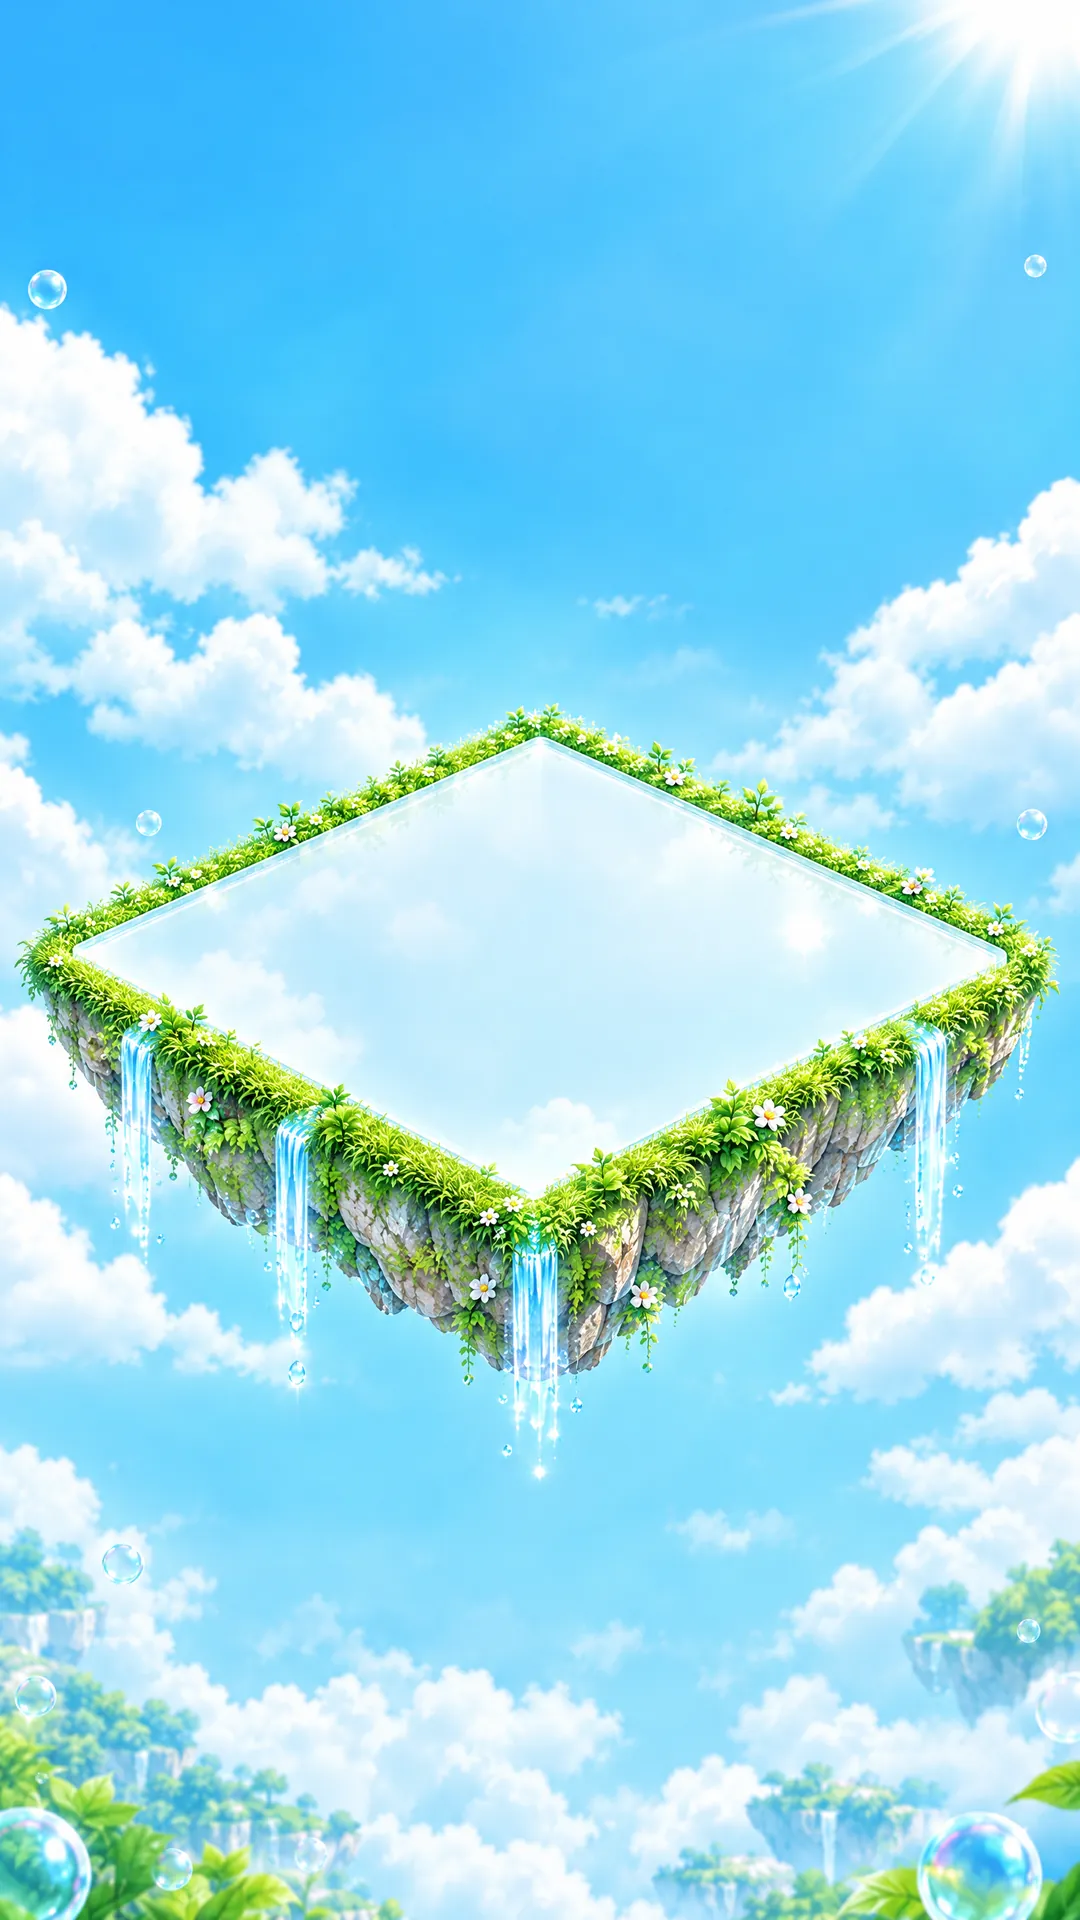
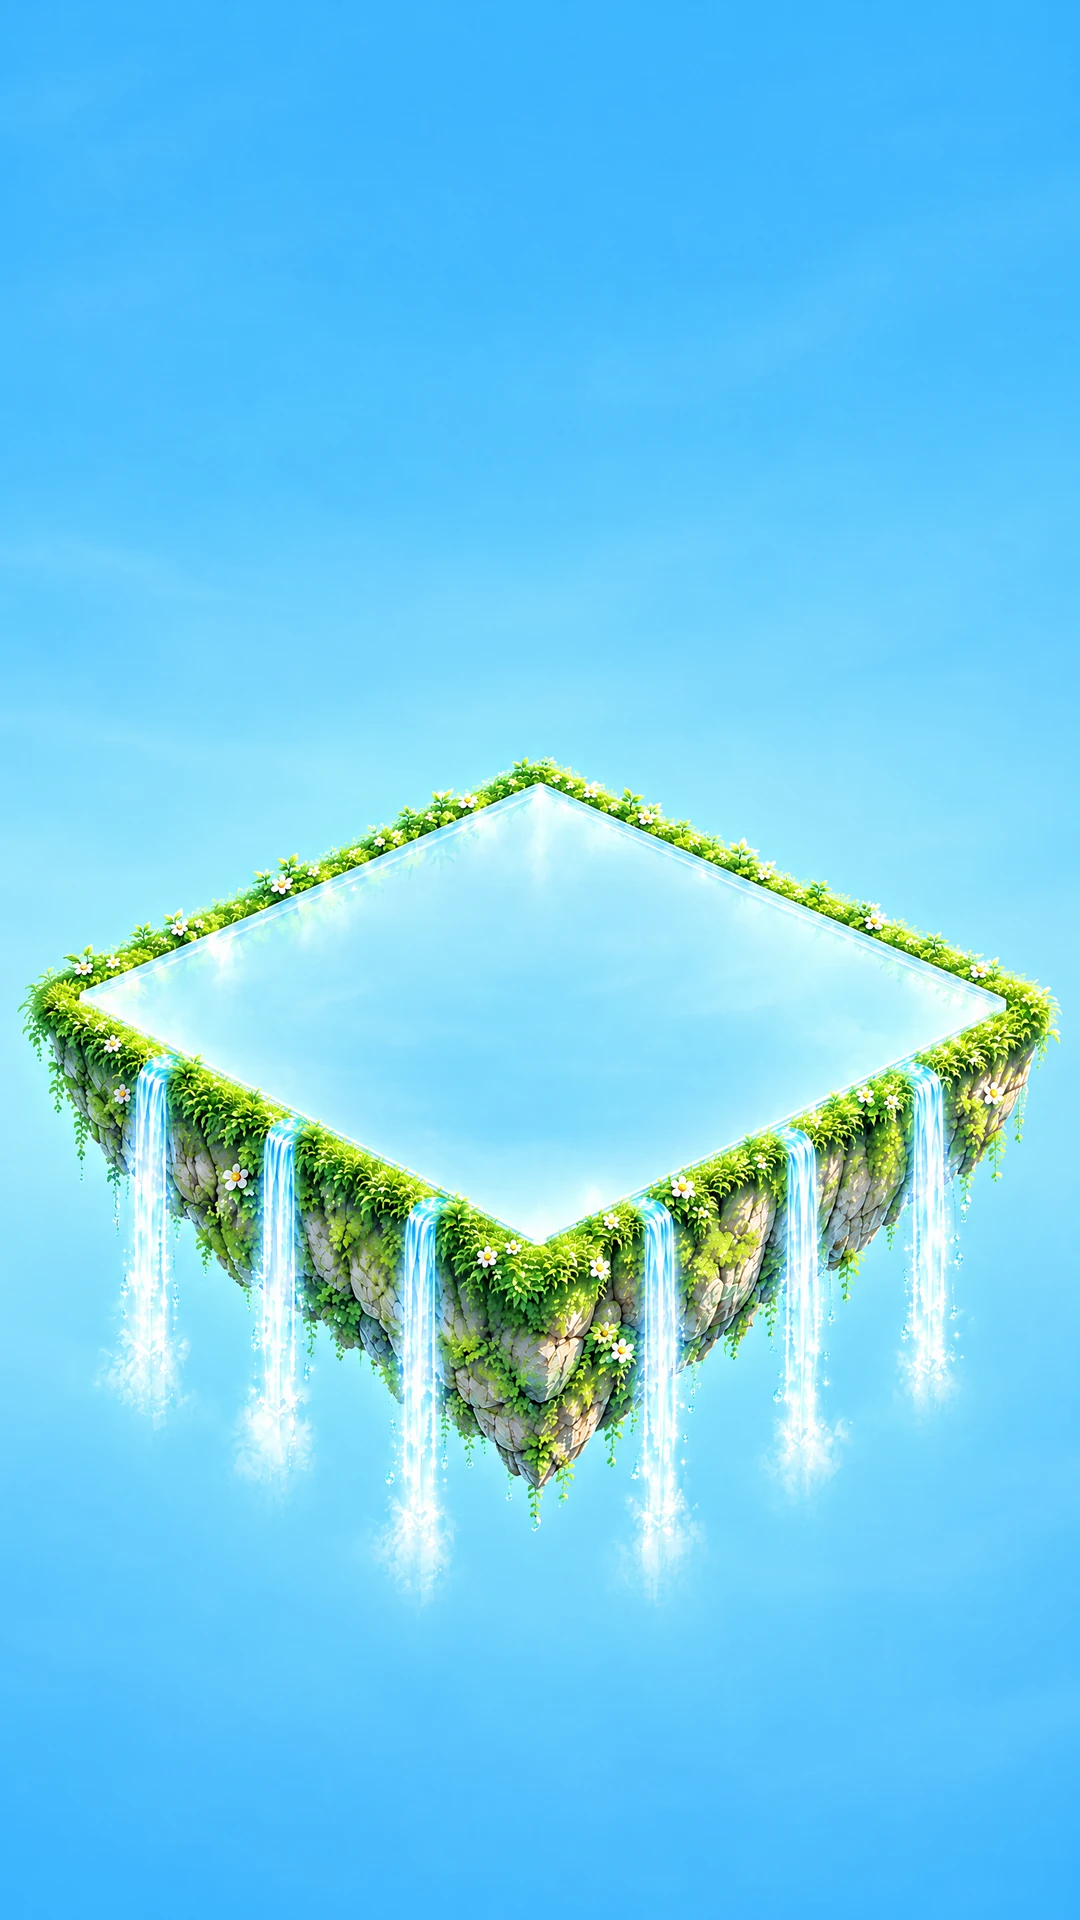
[Fix] Day sky redrawn on the exact board geometry
New day background (no clouds, sun glow or bubbles) generated against guide_BG_island_v2, so the glass plate and the 4x4 board share the same diamond. bgDy(): the day sky needs no offset, the other skies still use BG_DY until they are redrawn. Shop skin swap keeps the offset in step.

diff --git a/js/renderer.js b/js/renderer.js
@@ -1,5 +1,5 @@
 /* Skybloom module: renderer (split from index.html in step 12; code unchanged) */
-import { $, BG_DY, CAL, CX, CY, FALLS, G, GUIDE, HR, IMG, ISLAND, L, MOTION, SHOW, TH, TW, U, WS, bkey, center, reduce, same } from './core.js?v=0.6.6';
+import { $, CAL, CX, CY, FALLS, G, GUIDE, HR, IMG, ISLAND, L, MOTION, SHOW, TH, TW, U, WS, bgDy, bkey, center, reduce, same } from './core.js?v=0.6.6';
 import { SFX, vib } from './audio.js?v=0.6.6';
 import { busy, finishMerge, paused, speedRing, tickSpeed } from './game.js?v=0.6.6';
 import { addFxXY, floatText, parts, set_floatText } from './fx.js?v=0.6.6';
@@ -190,7 +190,7 @@ export function initRenderer() {
   const T = genTextures(), S = app.stage;
   const world = new PIXI.Container(); world.pivot.set(CX, CY); world.position.set(CX, CY); world.scale.set(WS); S.addChild(world);
   // sky: three time-of-day backgrounds cross-fade
-  const bgs = ['bg', 'bg1', 'bg2'].map(k => { const s = new PIXI.Sprite(tex(k)); s.width = 1080; s.height = 1920; s.y = BG_DY; world.addChild(s); return s; });   // BG_DY: island art lines up with the board (core.js)
+  const bgs = ['bg', 'bg1', 'bg2'].map(k => { const s = new PIXI.Sprite(tex(k)); s.width = 1080; s.height = 1920; s.y = bgDy(k); world.addChild(s); return s; });   // bgDy: island art lines up with the board (core.js)
   const lights = [[980, 40, 0xfff6d0, 520], [1010, 760, 0xffb070, 620], [960, 160, 0xcfe0ff, 360]].map(([x, y, tint, size]) => {
     const s = new PIXI.Sprite(T.glow); s.anchor.set(.5); s.position.set(x, y); s.width = s.height = size; s.tint = tint; s.blendMode = ADD(); world.addChild(s); return s; });
   const cloud = (k, y, sc, alpha) => { const t = tex(k), s = new PIXI.TilingSprite(t, 1240, t.height * sc); s.tileScale.set(sc); s.y = y; s.alpha = alpha; world.addChild(s); return s; };

diff --git a/js/shop.js b/js/shop.js
@@ -1,5 +1,5 @@
 /* Skybloom module: shop (split from index.html in step 12; code unchanged) */
-import { $, CX, CY, IMG, NAMES, NAMES_BASE, NAMES_BY, SET_PRE, TW, U, loadSkinArt, reduce, set_NAMES, store, tl } from './core.js?v=0.6.6';
+import { $, CX, CY, IMG, bgDy, NAMES, NAMES_BASE, NAMES_BY, SET_PRE, TW, U, loadSkinArt, reduce, set_NAMES, store, tl } from './core.js?v=0.6.6';
 import { SFX, vib } from './audio.js?v=0.6.6';
 import { hud, overlay, sheet, toast } from './ui.js?v=0.6.6';
 import { addGold } from './game.js?v=0.6.6';
@@ -34,7 +34,7 @@ export function applySkins(sel = U.equip) {
   const tt = tex(IMG[b.tile] ? b.tile : 'tile'), tw = TW * .95;
   R.tiles.forEach(t => { t.texture = tt; t.width = tw; t.height = tt.height * tw / tt.width; });
   U.skinWater = b.water || null;
-  R.bgs[0].texture = tex(IMG[sk.bg] ? sk.bg : 'bg');
+  const skyKey = IMG[sk.bg] ? sk.bg : 'bg'; R.bgs[0].texture = tex(skyKey); R.bgs[0].y = bgDy(skyKey);
   const set = bu.set || null; set_NAMES(NAMES_BY[set] || NAMES_BASE);
   if (U.bset !== set) { U.bset = set; for (const I of R.inst.values()) I.c.destroy({ children: true }); R.inst.clear(); }
   U.skinBubble = bb.tint || null;

diff --git a/js/core.js b/js/core.js
@@ -70,6 +70,7 @@ export const GUIDE = { b13: [220, 0, 828, 996], b14: [85, 28, 957, 992], b15: [1
 // BG_DY: the island art sits this many px (world units) higher than the board diamond in the backgrounds' own frame, so every background layer and the island silhouette are drawn BG_DY lower
 // (measured on bg.webp: glass plate apex y~740, front apex y~1205 -> centre ~972, the board's centre is CY=1000)
 export const BG_DY = 28;
+export const bgDy = k => k === 'bg' ? 0 : BG_DY;   // the day sky was redrawn on the exact board geometry (guide_BG_island_v2); the other skies still need BG_DY until they are redrawn
 export const ISLAND = [540, 700, 1066, 935, 1050, 1015, 905, 1160, 705, 1335, 540, 1400, 375, 1335, 175, 1160, 30, 1015, 14, 935].map((v, i) => i % 2 ? v + BG_DY : v);
 // board outline (outer tile corners) and the grout outlets where board water falls over the front edges
 const BOARD = [540, 760, 1020, 1000, 540, 1240, 60, 1000];
